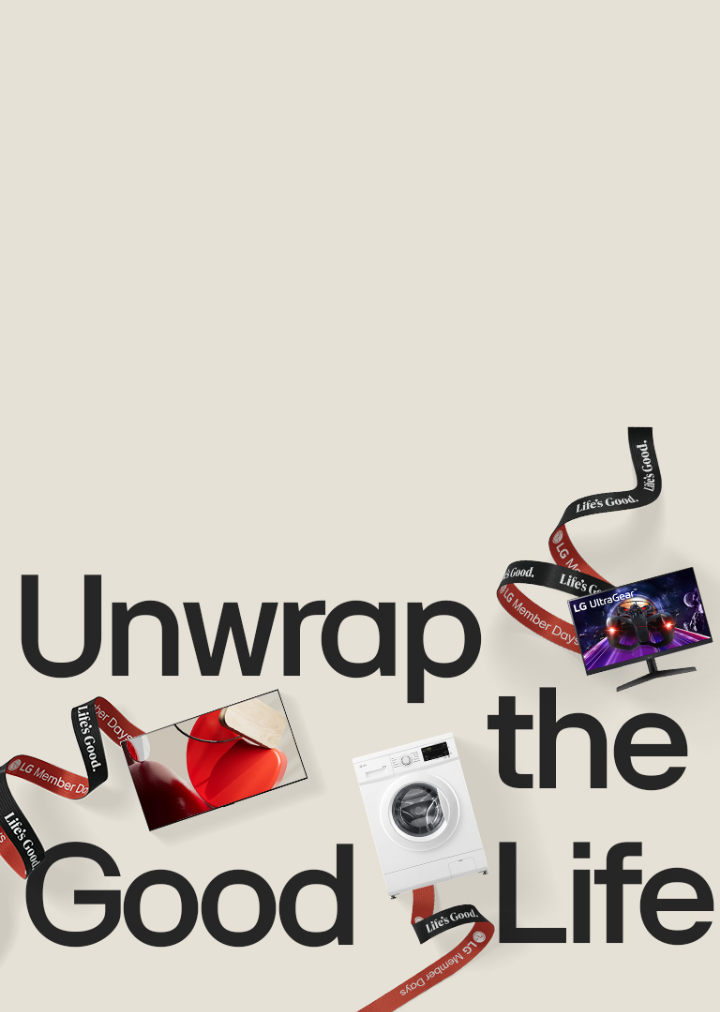
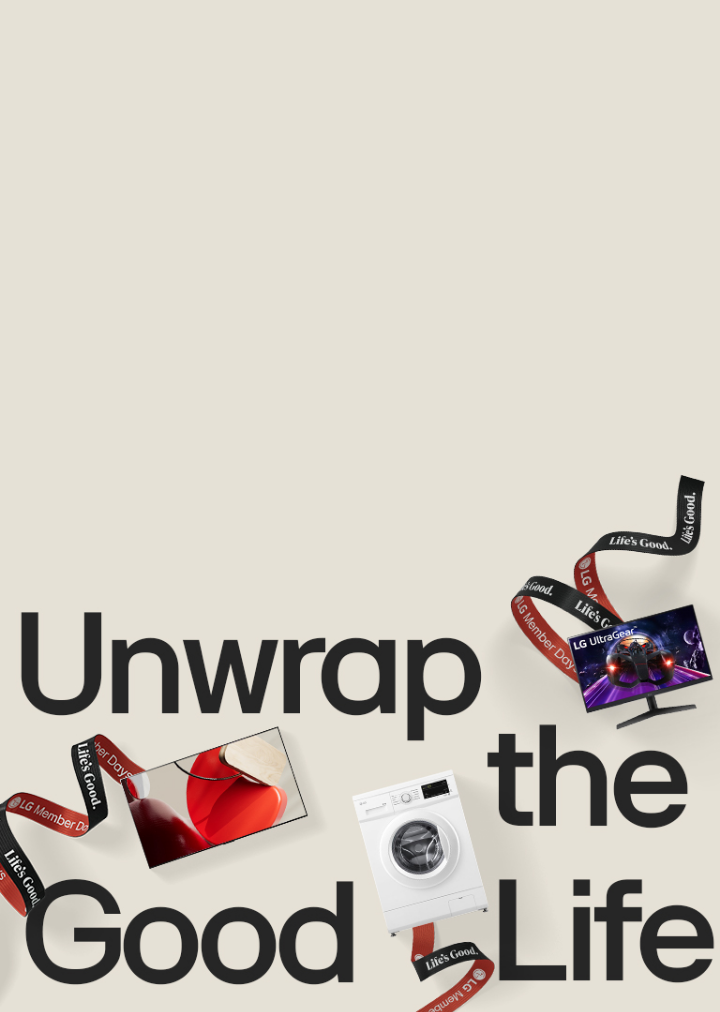
프랑스수정

Changed region(s): [[0.0, 0.3982, 1.0, 1.0], [0.0306, 0.5514, 0.0611, 0.6126]]

diff --git a/src/fr/index.html b/src/fr/index.html
@@ -318,7 +318,11 @@
                 Obtenez jusqu’à 33 % sur des offres spéciales<br>
                 Remises supplémentaires pour les bundles
               </p>
-              <p class="desc desc--secondary">*LG MEMBER DAYS = Les journées membres LG</p>
+              <p class="desc desc--secondary">
+                *LG MEMBER DAYS = Les journées membres LG<br>
+                *Unwrap the Good Life = La vie est belle
+              </p>
+              <p class="desc">L’offre se termine le 16 octobre</p>
               <div class="term">
                 <a href="#">
                   Termes et conditions

diff --git a/src/assets/css/index_fr.scss b/src/assets/css/index_fr.scss
@@ -15,6 +15,19 @@
 				background-image: url('../images/m_bg_visual.png');
 			}
 		}
+		@media (max-width: 1024px) {
+
+			.desc {
+
+				&:not(:last-child) {
+					margin-bottom: 4px;
+				}
+
+				& + .desc:not(.desc--secondary) {
+					margin-top: 12px;
+				}
+			}		
+		}
 	}
 
 	.product__discount,
